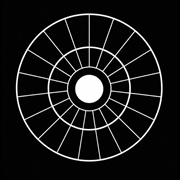
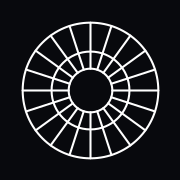
Update Sonne identity and search metadata

Changed region(s): [[0.0833, 0.0556, 0.9167, 0.9167]]

diff --git a/index.html b/index.html
@@ -21,14 +21,24 @@
   <meta property="og:title" content="Sonne Systems | Advanced AI research">
   <meta property="og:description" content="Researching AI that learns over time, uses compute carefully, and changes only when evidence supports it.">
   <meta property="og:url" content="https://sonnesystems.com/">
-  <meta property="og:image" content="https://sonnesystems.com/assets/og.png">
+  <meta property="og:locale" content="en_US">
+  <meta property="og:image" content="https://sonnesystems.com/assets/og.png?v=brand4">
+  <meta property="og:image:secure_url" content="https://sonnesystems.com/assets/og.png?v=brand4">
+  <meta property="og:image:type" content="image/png">
+  <meta property="og:image:width" content="1200">
+  <meta property="og:image:height" content="630">
+  <meta property="og:image:alt" content="Sonne Systems radial mark and wordmark">
   <meta name="twitter:card" content="summary_large_image">
-  <script type="application/ld+json">{"@context":"https://schema.org","@graph":[{"@type":"Organization","@id":"https://sonnesystems.com/#organization","name":"Sonne Systems","url":"https://sonnesystems.com/","logo":{"@type":"ImageObject","url":"https://sonnesystems.com/icon-512.png","width":512,"height":512},"email":"mailto:9aman.aa@gmail.com","founder":{"@type":"Person","name":"Aman Agarwal","sameAs":"https://www.linkedin.com/in/aman-agarwal-628880317"}},{"@type":"WebSite","@id":"https://sonnesystems.com/#website","url":"https://sonnesystems.com/","name":"Sonne Systems","publisher":{"@id":"https://sonnesystems.com/#organization"},"inLanguage":"en"}]}</script>
+  <meta name="twitter:title" content="Sonne Systems | Advanced AI research">
+  <meta name="twitter:description" content="Independent research in neuromorphic computing, continual learning, spiking neural networks, and adaptive AI systems.">
+  <meta name="twitter:image" content="https://sonnesystems.com/assets/og.png?v=brand4">
+  <meta name="twitter:image:alt" content="Sonne Systems radial mark and wordmark">
+  <script type="application/ld+json">{"@context":"https://schema.org","@graph":[{"@type":"Organization","@id":"https://sonnesystems.com/#organization","name":"Sonne Systems","alternateName":"Sonne","description":"Independent advanced AI research and engineering company studying neuromorphic computing, continual learning, spiking neural networks, and adaptive systems.","url":"https://sonnesystems.com/","logo":{"@type":"ImageObject","url":"https://sonnesystems.com/icon-512.png","contentUrl":"https://sonnesystems.com/icon-512.png","width":512,"height":512,"caption":"Sonne Systems radial mark"},"image":"https://sonnesystems.com/assets/og.png","email":"mailto:aman@sonnesystems.com","contactPoint":{"@type":"ContactPoint","contactType":"research and engineering inquiries","email":"aman@sonnesystems.com","availableLanguage":"English"},"founder":{"@type":"Person","name":"Aman Agarwal","url":"https://sonnesystems.com/about.html","sameAs":"https://www.linkedin.com/in/aman-agarwal-628880317"}},{"@type":"WebSite","@id":"https://sonnesystems.com/#website","url":"https://sonnesystems.com/","name":"Sonne Systems","alternateName":"Sonne","description":"Advanced AI research and evidence-led engineering.","publisher":{"@id":"https://sonnesystems.com/#organization"},"inLanguage":"en"},{"@type":"WebPage","@id":"https://sonnesystems.com/#webpage","url":"https://sonnesystems.com/","name":"Sonne Systems | Advanced AI research and engineering","description":"Sonne Systems is an independent AI research company studying neuromorphic computing, continual learning, spiking neural networks, and evidence-led adaptive systems.","isPartOf":{"@id":"https://sonnesystems.com/#website"},"about":{"@id":"https://sonnesystems.com/#organization"},"primaryImageOfPage":{"@type":"ImageObject","url":"https://sonnesystems.com/assets/og.png","width":1200,"height":630},"inLanguage":"en"}]}</script>
   <link rel="preconnect" href="https://fonts.googleapis.com">
   <link rel="preconnect" href="https://fonts.gstatic.com" crossorigin>
   <link href="https://fonts.googleapis.com/css2?family=IBM+Plex+Mono:wght@400;500&amp;family=Instrument+Serif:ital@0;1&amp;family=Space+Grotesk:wght@400;500;600;700&amp;display=swap" rel="stylesheet">
-  <link rel="stylesheet" href="css/styles.css?v=clear5">
-  <script defer src="js/site.js?v=clear1"></script>
+  <link rel="stylesheet" href="css/styles.css?v=clear6">
+  <script defer src="js/site.js?v=clear2"></script>
 </head>
 <body>
   <div data-site-header></div>
@@ -170,7 +180,7 @@
             <li>AI prototypes and evidence-led product development</li>
             <li>Websites and apps with strong product thinking</li>
           </ul>
-          <a class="button button-dark" href="mailto:9aman.aa@gmail.com?subject=Project%20inquiry%20for%20Sonne%20Systems"><span>9aman.aa@gmail.com</span><span aria-hidden="true">↗</span></a>
+          <a class="button button-dark" href="mailto:aman@sonnesystems.com?subject=Project%20inquiry%20for%20Sonne%20Systems"><span>aman@sonnesystems.com</span><span aria-hidden="true">↗</span></a>
         </div>
       </div>
     </section>

diff --git a/about.html b/about.html
@@ -9,9 +9,11 @@
   <meta name="theme-color" content="#f3f0e8">
   <meta name="robots" content="index, follow, max-image-preview:large"><meta name="application-name" content="Sonne Systems"><meta name="apple-mobile-web-app-title" content="Sonne Systems">
   <link rel="icon" type="image/png" sizes="48x48" href="/favicon-48.png"><link rel="icon" type="image/png" sizes="32x32" href="/favicon-32.png"><link rel="shortcut icon" type="image/x-icon" href="/favicon.ico"><link rel="apple-touch-icon" sizes="180x180" href="/apple-touch-icon.png"><link rel="mask-icon" href="/assets/SonneSystemsCompanyLogo.svg" color="#08090d"><link rel="manifest" href="/site.webmanifest">
-  <meta property="og:type" content="website"><meta property="og:site_name" content="Sonne Systems"><meta property="og:title" content="Studio | Sonne Systems"><meta property="og:description" content="Independent AI research and engineering led by Aman Agarwal."><meta property="og:url" content="https://sonnesystems.com/about.html"><meta property="og:image" content="https://sonnesystems.com/assets/og.png">
+  <meta property="og:type" content="website"><meta property="og:site_name" content="Sonne Systems"><meta property="og:locale" content="en_US"><meta property="og:title" content="Studio | Sonne Systems"><meta property="og:description" content="Independent AI research and engineering led by Aman Agarwal."><meta property="og:url" content="https://sonnesystems.com/about.html"><meta property="og:image" content="https://sonnesystems.com/assets/og.png?v=brand4"><meta property="og:image:width" content="1200"><meta property="og:image:height" content="630"><meta property="og:image:alt" content="Sonne Systems radial mark and wordmark">
+  <meta name="twitter:card" content="summary_large_image"><meta name="twitter:title" content="Studio | Sonne Systems"><meta name="twitter:description" content="Independent AI research and engineering led by Aman Agarwal."><meta name="twitter:image" content="https://sonnesystems.com/assets/og.png?v=brand4"><meta name="twitter:image:alt" content="Sonne Systems radial mark and wordmark">
+  <script type="application/ld+json">{"@context":"https://schema.org","@type":"AboutPage","@id":"https://sonnesystems.com/about.html#webpage","url":"https://sonnesystems.com/about.html","name":"Studio | Sonne Systems","description":"Sonne Systems is an independent AI research and engineering company founded by Aman Agarwal.","isPartOf":{"@id":"https://sonnesystems.com/#website"},"about":{"@id":"https://sonnesystems.com/#organization"},"primaryImageOfPage":{"@type":"ImageObject","url":"https://sonnesystems.com/assets/og.png","width":1200,"height":630},"inLanguage":"en"}</script>
   <link rel="preconnect" href="https://fonts.googleapis.com"><link rel="preconnect" href="https://fonts.gstatic.com" crossorigin><link href="https://fonts.googleapis.com/css2?family=IBM+Plex+Mono:wght@400;500&amp;family=Space+Grotesk:wght@400;500;600;700&amp;display=swap" rel="stylesheet">
-  <link rel="stylesheet" href="css/styles.css?v=clear5"><script defer src="js/site.js?v=clear1"></script>
+  <link rel="stylesheet" href="css/styles.css?v=clear6"><script defer src="js/site.js?v=clear2"></script>
 </head>
 <body class="light-header">
   <div data-site-header></div>
@@ -50,7 +52,7 @@
       <div class="shell contact-layout">
         <div><p class="signal-label" data-reveal>Contact</p><h2 data-reveal>Tell us what you are trying to prove or build.</h2></div>
         <div class="contact-links" data-reveal="soft">
-          <a href="mailto:9aman.aa@gmail.com"><small>Email</small><strong>9aman.aa@gmail.com</strong><span aria-hidden="true">↗</span></a>
+          <a href="mailto:aman@sonnesystems.com"><small>Email</small><strong>aman@sonnesystems.com</strong><span aria-hidden="true">↗</span></a>
           <a href="https://www.linkedin.com/in/aman-agarwal-628880317" target="_blank" rel="noopener"><small>LinkedIn</small><strong>Aman Agarwal</strong><span aria-hidden="true">↗</span></a>
         </div>
       </div>

diff --git a/ventures.html b/ventures.html
@@ -9,9 +9,11 @@
   <meta name="theme-color" content="#d8d4ff">
   <meta name="robots" content="index, follow, max-image-preview:large"><meta name="application-name" content="Sonne Systems"><meta name="apple-mobile-web-app-title" content="Sonne Systems">
   <link rel="icon" type="image/png" sizes="48x48" href="/favicon-48.png"><link rel="icon" type="image/png" sizes="32x32" href="/favicon-32.png"><link rel="shortcut icon" type="image/x-icon" href="/favicon.ico"><link rel="apple-touch-icon" sizes="180x180" href="/apple-touch-icon.png"><link rel="mask-icon" href="/assets/SonneSystemsCompanyLogo.svg" color="#08090d"><link rel="manifest" href="/site.webmanifest">
-  <meta property="og:type" content="website"><meta property="og:site_name" content="Sonne Systems"><meta property="og:title" content="Ventures | Sonne Systems"><meta property="og:description" content="Lyfe is available now, with two more consumer ideas in careful development."><meta property="og:url" content="https://sonnesystems.com/ventures.html"><meta property="og:image" content="https://sonnesystems.com/assets/og.png">
+  <meta property="og:type" content="website"><meta property="og:site_name" content="Sonne Systems"><meta property="og:locale" content="en_US"><meta property="og:title" content="Ventures | Sonne Systems"><meta property="og:description" content="Lyfe is available now, with two more consumer ideas in careful development."><meta property="og:url" content="https://sonnesystems.com/ventures.html"><meta property="og:image" content="https://sonnesystems.com/assets/og.png?v=brand4"><meta property="og:image:width" content="1200"><meta property="og:image:height" content="630"><meta property="og:image:alt" content="Sonne Systems radial mark and wordmark">
+  <meta name="twitter:card" content="summary_large_image"><meta name="twitter:title" content="Ventures | Sonne Systems"><meta name="twitter:description" content="Lyfe is available now, with two more consumer ideas in careful development."><meta name="twitter:image" content="https://sonnesystems.com/assets/og.png?v=brand4"><meta name="twitter:image:alt" content="Sonne Systems radial mark and wordmark">
+  <script type="application/ld+json">{"@context":"https://schema.org","@type":"CollectionPage","@id":"https://sonnesystems.com/ventures.html#webpage","url":"https://sonnesystems.com/ventures.html","name":"Ventures | Sonne Systems","description":"Explore Lyfe, the personal life workspace from Sonne Systems, plus Lyfe Alt and Lyfe Store in development.","isPartOf":{"@id":"https://sonnesystems.com/#website"},"about":{"@id":"https://sonnesystems.com/#organization"},"primaryImageOfPage":{"@type":"ImageObject","url":"https://sonnesystems.com/assets/og.png","width":1200,"height":630},"inLanguage":"en"}</script>
   <link rel="preconnect" href="https://fonts.googleapis.com"><link rel="preconnect" href="https://fonts.gstatic.com" crossorigin><link href="https://fonts.googleapis.com/css2?family=IBM+Plex+Mono:wght@400;500&amp;family=Space+Grotesk:wght@400;500;600;700&amp;display=swap" rel="stylesheet">
-  <link rel="stylesheet" href="css/styles.css?v=clear5"><script defer src="js/site.js?v=clear1"></script>
+  <link rel="stylesheet" href="css/styles.css?v=clear6"><script defer src="js/site.js?v=clear2"></script>
 </head>
 <body class="light-header">
   <div data-site-header></div>

diff --git a/research.html b/research.html
@@ -9,9 +9,11 @@
   <meta name="theme-color" content="#08090d">
   <meta name="robots" content="index, follow, max-image-preview:large"><meta name="application-name" content="Sonne Systems"><meta name="apple-mobile-web-app-title" content="Sonne Systems">
   <link rel="icon" type="image/png" sizes="48x48" href="/favicon-48.png"><link rel="icon" type="image/png" sizes="32x32" href="/favicon-32.png"><link rel="shortcut icon" type="image/x-icon" href="/favicon.ico"><link rel="apple-touch-icon" sizes="180x180" href="/apple-touch-icon.png"><link rel="mask-icon" href="/assets/SonneSystemsCompanyLogo.svg" color="#08090d"><link rel="manifest" href="/site.webmanifest">
-  <meta property="og:type" content="website"><meta property="og:site_name" content="Sonne Systems"><meta property="og:title" content="Research | Sonne Systems"><meta property="og:description" content="Controlled experiments for adaptive, sparse, and trustworthy AI."><meta property="og:url" content="https://sonnesystems.com/research.html"><meta property="og:image" content="https://sonnesystems.com/assets/og.png">
+  <meta property="og:type" content="website"><meta property="og:site_name" content="Sonne Systems"><meta property="og:locale" content="en_US"><meta property="og:title" content="Research | Sonne Systems"><meta property="og:description" content="Controlled experiments for adaptive, sparse, and trustworthy AI."><meta property="og:url" content="https://sonnesystems.com/research.html"><meta property="og:image" content="https://sonnesystems.com/assets/og.png?v=brand4"><meta property="og:image:width" content="1200"><meta property="og:image:height" content="630"><meta property="og:image:alt" content="Sonne Systems radial mark and wordmark">
+  <meta name="twitter:card" content="summary_large_image"><meta name="twitter:title" content="Research | Sonne Systems"><meta name="twitter:description" content="Controlled experiments for adaptive, sparse, and trustworthy AI."><meta name="twitter:image" content="https://sonnesystems.com/assets/og.png?v=brand4"><meta name="twitter:image:alt" content="Sonne Systems radial mark and wordmark">
+  <script type="application/ld+json">{"@context":"https://schema.org","@type":"CollectionPage","@id":"https://sonnesystems.com/research.html#webpage","url":"https://sonnesystems.com/research.html","name":"Research | Sonne Systems","description":"Sonne Systems research in spiking neural networks, neuromorphic computing, continual learning, adaptive systems, and certified robustness.","isPartOf":{"@id":"https://sonnesystems.com/#website"},"about":{"@id":"https://sonnesystems.com/#organization"},"primaryImageOfPage":{"@type":"ImageObject","url":"https://sonnesystems.com/assets/og.png","width":1200,"height":630},"inLanguage":"en"}</script>
   <link rel="preconnect" href="https://fonts.googleapis.com"><link rel="preconnect" href="https://fonts.gstatic.com" crossorigin><link href="https://fonts.googleapis.com/css2?family=IBM+Plex+Mono:wght@400;500&amp;family=Space+Grotesk:wght@400;500;600;700&amp;display=swap" rel="stylesheet">
-  <link rel="stylesheet" href="css/styles.css?v=clear5"><script defer src="js/site.js?v=clear1"></script>
+  <link rel="stylesheet" href="css/styles.css?v=clear6"><script defer src="js/site.js?v=clear2"></script>
 </head>
 <body>
   <div data-site-header></div>

diff --git a/404.html b/404.html
@@ -3,7 +3,7 @@
 <head>
   <meta charset="utf-8"><meta name="viewport" content="width=device-width, initial-scale=1"><meta name="robots" content="noindex"><title>Page not found | Sonne Systems</title><meta name="theme-color" content="#08090d"><meta name="application-name" content="Sonne Systems"><meta name="apple-mobile-web-app-title" content="Sonne Systems">
   <link rel="icon" type="image/png" sizes="48x48" href="/favicon-48.png"><link rel="icon" type="image/png" sizes="32x32" href="/favicon-32.png"><link rel="shortcut icon" type="image/x-icon" href="/favicon.ico"><link rel="apple-touch-icon" sizes="180x180" href="/apple-touch-icon.png"><link rel="mask-icon" href="/assets/SonneSystemsCompanyLogo.svg" color="#08090d"><link rel="manifest" href="/site.webmanifest">
-  <link rel="preconnect" href="https://fonts.googleapis.com"><link rel="preconnect" href="https://fonts.gstatic.com" crossorigin><link href="https://fonts.googleapis.com/css2?family=IBM+Plex+Mono:wght@400;500&amp;family=Space+Grotesk:wght@400;500;600;700&amp;display=swap" rel="stylesheet"><link rel="stylesheet" href="/css/styles.css?v=clear5"><script defer src="/js/site.js?v=clear1"></script>
+  <link rel="preconnect" href="https://fonts.googleapis.com"><link rel="preconnect" href="https://fonts.gstatic.com" crossorigin><link href="https://fonts.googleapis.com/css2?family=IBM+Plex+Mono:wght@400;500&amp;family=Space+Grotesk:wght@400;500;600;700&amp;display=swap" rel="stylesheet"><link rel="stylesheet" href="/css/styles.css?v=clear6"><script defer src="/js/site.js?v=clear2"></script>
 </head>
 <body><div data-site-header></div><main id="main-content" class="not-found"><div><p class="signal-label">Signal not found</p><h1>404</h1><p>The page moved, or the address is incomplete.</p><a class="button button-light" href="/"><span>Return home</span><span aria-hidden="true">→</span></a></div></main></body>
 </html>

diff --git a/papers.html b/papers.html
@@ -10,7 +10,7 @@
   <meta name="application-name" content="Sonne Systems"><meta name="apple-mobile-web-app-title" content="Sonne Systems">
   <link rel="icon" type="image/png" sizes="48x48" href="/favicon-48.png"><link rel="icon" type="image/png" sizes="32x32" href="/favicon-32.png"><link rel="shortcut icon" type="image/x-icon" href="/favicon.ico"><link rel="apple-touch-icon" sizes="180x180" href="/apple-touch-icon.png"><link rel="mask-icon" href="/assets/SonneSystemsCompanyLogo.svg" color="#08090d"><link rel="manifest" href="/site.webmanifest">
   <link rel="preconnect" href="https://fonts.googleapis.com"><link rel="preconnect" href="https://fonts.gstatic.com" crossorigin><link href="https://fonts.googleapis.com/css2?family=IBM+Plex+Mono:wght@400;500&amp;family=Space+Grotesk:wght@400;500;600;700&amp;display=swap" rel="stylesheet">
-  <link rel="stylesheet" href="css/styles.css?v=clear5"><script defer src="js/site.js?v=clear1"></script><script defer src="js/papers.js?v=clear1"></script>
+  <link rel="stylesheet" href="css/styles.css?v=clear6"><script defer src="js/site.js?v=clear2"></script><script defer src="js/papers.js?v=clear1"></script>
 </head>
 <body class="vault-page">
   <div data-site-header></div>

diff --git a/css/styles.css b/css/styles.css
@@ -100,12 +100,12 @@ p { text-wrap: pretty; }
 .brand { display: inline-flex; align-items: center; gap: 14px; color: inherit; text-decoration: none; }
 .brand > span:last-child { font-family: "Space Grotesk", Arial, sans-serif; font-size: .78rem; font-weight: 500; line-height: 1; letter-spacing: .24em; text-transform: uppercase; white-space: nowrap; }
 .brand-mark {
-  width: 34px;
-  height: 34px;
+  width: 36px;
+  height: 36px;
   flex: 0 0 auto;
   background-color: currentColor;
-  -webkit-mask: url("/assets/SonneSystemsCompanyLogo.png?v=brand3") center / contain no-repeat;
-  mask: url("/assets/SonneSystemsCompanyLogo.png?v=brand3") center / contain no-repeat;
+  -webkit-mask: url("/assets/SonneSystemsCompanyLogo.svg?v=brand4") center / contain no-repeat;
+  mask: url("/assets/SonneSystemsCompanyLogo.svg?v=brand4") center / contain no-repeat;
 }
 .site-nav { display: flex; align-items: center; gap: clamp(18px, 2.5vw, 38px); }
 .site-nav a { position: relative; color: inherit; font-size: .82rem; text-decoration: none; }

diff --git a/js/site.js b/js/site.js
@@ -59,7 +59,7 @@
       '  <div class="footer-inner">',
       '    <div class="footer-top">',
       '      <p class="footer-statement">Build the claim. Test the boundary.</p>',
-      '      <div class="footer-contact"><small>Research and engineering</small><a href="mailto:9aman.aa@gmail.com">9aman.aa@gmail.com</a></div>',
+      '      <div class="footer-contact"><small>Research and engineering</small><a href="mailto:aman@sonnesystems.com">aman@sonnesystems.com</a></div>',
       '    </div>',
       '    <div class="footer-bottom">',
       '      <span>Copyright ' + new Date().getFullYear() + ' Sonne Systems</span>',

diff --git a/scripts/checks.py b/scripts/checks.py
@@ -13,6 +13,7 @@ import re
 import json
 import struct
 import sys
+import xml.etree.ElementTree as ET
 from pathlib import Path
 
 ROOT = Path(__file__).resolve().parents[1]
@@ -89,6 +90,9 @@ def check_brand_and_indexing():
         "apple-touch-icon.png": (180, 180),
         "icon-192.png": (192, 192),
         "icon-512.png": (512, 512),
+        "assets/SonneSystemsCompanyLogo.png": (1024, 1024),
+        "assets/SonneSystemsBrowserIcon.png": (1024, 1024),
+        "assets/og.png": (1200, 630),
     }
     for filename, dimensions in expected_icons.items():
         path = ROOT / filename
@@ -96,6 +100,18 @@ def check_brand_and_indexing():
             PROBLEMS.append(f"brand: {filename} is missing")
         elif png_size(path) != dimensions:
             PROBLEMS.append(f"brand: {filename} must be {dimensions[0]}x{dimensions[1]}")
+
+    svg_path = ROOT / "assets" / "SonneSystemsCompanyLogo.svg"
+    if not svg_path.exists():
+        PROBLEMS.append("brand: scalable Sonne Systems logo is missing")
+    else:
+        svg = svg_path.read_text(encoding="utf-8")
+        if svg.count("<circle") != 3 or svg.count("<use") != 20:
+            PROBLEMS.append("brand: scalable logo must contain three rings and twenty spokes")
+
+    ico_path = ROOT / "favicon.ico"
+    if not ico_path.exists() or ico_path.read_bytes()[:4] != b"\x00\x00\x01\x00":
+        PROBLEMS.append("brand: favicon.ico is missing or invalid")
 
     manifest_path = ROOT / "site.webmanifest"
     if manifest_path.exists():
@@ -112,14 +128,55 @@ def check_brand_and_indexing():
             PROBLEMS.append(f"brand: {filename} lacks shared browser icons")
         if 'name="robots" content="index, follow, max-image-preview:large"' not in html:
             PROBLEMS.append(f"indexing: {filename} lacks the public robots directive")
+        if 'property="og:image:alt"' not in html or 'name="twitter:image:alt"' not in html:
+            PROBLEMS.append(f"indexing: {filename} lacks complete social image metadata")
+        for payload in re.findall(r'<script type="application/ld\+json">(.*?)</script>', html, re.S):
+            try:
+                json.loads(payload)
+            except json.JSONDecodeError as error:
+                PROBLEMS.append(f"indexing: {filename} has invalid JSON-LD ({error})")
 
     home = (ROOT / "index.html").read_text(encoding="utf-8")
-    if 'type="application/ld+json"' not in home or 'https://sonnesystems.com/#organization' not in home:
+    if (
+        'type="application/ld+json"' not in home
+        or 'https://sonnesystems.com/#organization' not in home
+        or '"email":"mailto:aman@sonnesystems.com"' not in home
+        or '"url":"https://sonnesystems.com/icon-512.png"' not in home
+    ):
         PROBLEMS.append("indexing: homepage organization data is missing")
+
+    contact_files = ("index.html", "about.html", "js/site.js", "README.md", "SECURITY.md", "CONTRIBUTING.md")
+    retired_email = "9aman.aa" + "@gmail.com"
+    for filename in contact_files:
+        text = (ROOT / filename).read_text(encoding="utf-8")
+        if retired_email in text:
+            PROBLEMS.append(f"contact: {filename} still contains the retired email address")
 
     robots = (ROOT / "robots.txt").read_text(encoding="utf-8")
     if "Allow: /" not in robots or "Sitemap: https://sonnesystems.com/sitemap.xml" not in robots:
         PROBLEMS.append("indexing: robots.txt does not expose the public site and sitemap")
+
+    sitemap_path = ROOT / "sitemap.xml"
+    try:
+        sitemap = ET.parse(sitemap_path)
+    except (ET.ParseError, OSError) as error:
+        PROBLEMS.append(f"indexing: sitemap.xml is invalid ({error})")
+    else:
+        namespace = {"s": "http://www.sitemaps.org/schemas/sitemap/0.9"}
+        locations = {node.text for node in sitemap.findall(".//s:loc", namespace)}
+        expected_locations = {
+            "https://sonnesystems.com/",
+            "https://sonnesystems.com/research.html",
+            "https://sonnesystems.com/ventures.html",
+            "https://sonnesystems.com/lyfe/",
+            "https://sonnesystems.com/about.html",
+        }
+        if locations != expected_locations:
+            PROBLEMS.append("indexing: sitemap.xml does not contain exactly the canonical public URLs")
+
+    indexnow_key = ROOT / "af28275a-6ac9-4b6f-952b-9defb6fef22c.txt"
+    if not indexnow_key.exists() or indexnow_key.read_text(encoding="utf-8").strip() != indexnow_key.stem:
+        PROBLEMS.append("indexing: IndexNow ownership key is missing or invalid")
 
 
 def check_lyfe_shell():

diff --git a/README.md b/README.md
@@ -3,7 +3,7 @@
 Public website for **Sonne Systems**, an independent AI research and engineering company.
 
 - Live: https://sonnesystems.com
-- Owner: Aman Agarwal, 9aman.aa@gmail.com, [@9aman-og](https://github.com/9aman-og)
+- Owner: Aman Agarwal, aman@sonnesystems.com, [@9aman-og](https://github.com/9aman-og)
 
 ## System shape
 

diff --git a/CONTRIBUTING.md b/CONTRIBUTING.md
@@ -38,4 +38,4 @@ Imperative and specific: `Fix gate error copy on wrong password`, not `updates`.
 
 ## Security
 
-Found a vulnerability? Email 9aman.aa@gmail.com. Do not open a public issue for it.
+Found a vulnerability? Email aman@sonnesystems.com. Do not open a public issue for it.

diff --git a/SECURITY.md b/SECURITY.md
@@ -2,7 +2,7 @@
 
 ## Reporting
 
-Email **9aman.aa@gmail.com** with details. Please do not open a public issue for vulnerabilities.
+Email **aman@sonnesystems.com** with details. Please do not open a public issue for vulnerabilities.
 
 ## What is protected and how
 
